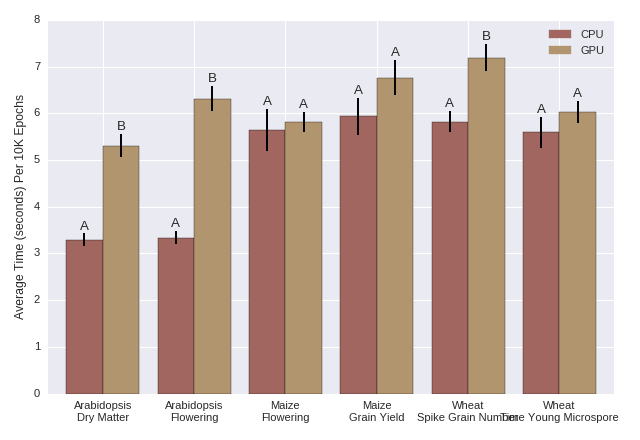
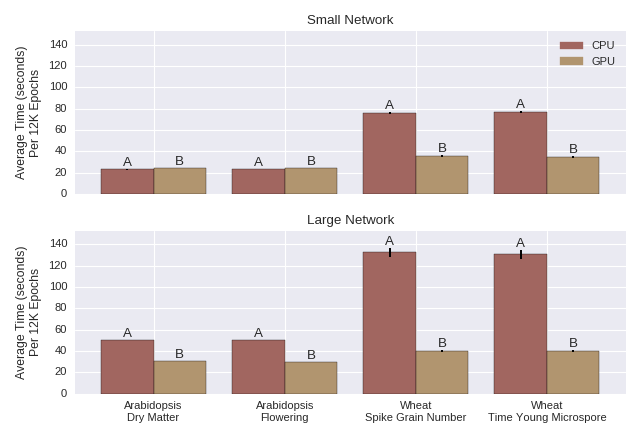
Update r&d for timing comparison

diff --git a/g3_article/sections/results.tex b/g3_article/sections/results.tex
@@ -1,24 +1,46 @@
-The results and discussion should not be repetitive. The results section should give a factual 
-presentation of the data and all tables and figures should be referenced; the discussion 
-should not summarize the results but provide an interpretation of the results, and should 
-clearly delineate between the findings of the particular study and the possible impact 
-of those findings in a larger context. Authors are encouraged to cite recent work 
-relevant to their interpretations. Present and discuss results only once, not in 
-both the Results and Discussion sections. It is sometimes acceptable to combine 
-results and discussion. The text should be as succinct as possible. 
-Heed Strunk and White's dictum: "Omit needless words!"
+
+\subsection*{Overall Performance}
 
 \ifdefined\showtablesandfigures
 \input{g3_article/tables/model_comparison_wrapper} % Label = tab:model-comparison
 \fi
 
+\subsection*{Regularized Network Performance}
+
+If a model is overfitted to training data, training data prediction accuracy is greater than 
+the accuracy observed when making predictions on new datasets. Because all measurements were collected 
+using five-fold cross validation sampling, models that overfit should exhibit lower accuracy. 
+The decreased performance of the unregularized networks on several datasets in Figure 
+\ref{fig-network-comparison} suggests that the overfitting problems 
+previously observed were limiting out-of-sample performance. Our results demonstrate that 
+applying one or more regularization methods to networks can improve their 
+predictive accuracy for genomic prediction problems.
+
 \ifdefined\showtablesandfigures
 \input{g3_article/figures/network_comparison} % Label = fig:network-comparison
 \fi
 
+\subsection*{Deep Network Performance}
+
 \ifdefined\showtablesandfigures
 \input{g3_article/figures/depth_comparison} % Label = fig:depth-comparison
 \fi
+
+\subsection*{GPU and CPU Training Time}
+
+Network training time was significantly different from CPU training time in all datasets (Figure \ref{fig:time-comparison}).
+For small networks trained on smaller datasets such as arabidopsis, CPU training completed significantly faster than GPU training, though only
+by a small magnitude. For small networks and all other datasets, as well as for all large networks, GPU training time was faster than 
+CPU training time on a per-core basis. For very large datasets such as the pig and loblolly datasets, CPU computing could not be 
+completed in under 24 hours, but could be completed by a dedicated GPU card during that time. These results confirm that the 
+speedups associated with GPU network training apply to genomic selection applications.  
+
+The results from Figure \ref{fig:time-comparison} compare a single Intel i7-4790K CPU core to a single Nvidia GTX 680 graphics card.
+However, most modern full-size computers posess multiple CPU cores, but few contain graphics cards with GPU compute capability. 
+Thus, choosing a network training method depends on computing hardware availability as well as required turnaround time. Cloud providers such 
+as Amazon Web Services (AWS) are becoming more popular, and make this choice somewhat less important. AWS provides both CPU and GPU rich 
+machines which can be rented at low cost and are charged by the hour. This makes it feasible to choose a training platform 
+that is most cost effective based on the quantity of data and desired network archetecture for any genomic selection application.
 
 \ifdefined\showtablesandfigures
 \input{g3_article/figures/time_comparison} % Label = fig:time-comparison

diff --git a/g3_article/figures/time_comparison.tex b/g3_article/figures/time_comparison.tex
@@ -3,12 +3,14 @@
 \renewcommand{\familydefault}{\sfdefault}\normalfont
 \centering 
 \includegraphics[width=\linewidth]{g3_article/figures/time_comparison.png}
-    \caption{Time to train identical networks on identical datsets using a dedicated CPU core
-             compared to a dedicated GPU card. For all datasets, a single hidden layer, unregularized 
-             neural network was trained for 10K epochs. Optimizations that could cause a network
-             to terminate training early were disabled so differences in network initialization
-             would not affect timing. Each CPU and GPU training example were compared using 
-             an independent samples T-test with $n=30$. Columns annotated with the same letter 
-             are not significantly different at the $\alpha=0.05$ level.}
+    \caption{Time to train different sized networks on identical datsets using a single dedicated CPU core
+             compared to a single dedicated GPU card. Lower time to train is better. For the small network, 
+             an unregularized, single hidden layer of 27 neurons was trained for 12K epochs on each dataset. 
+             For the large network, two the hidden layers of size 64 and 32 neurons, respectively were trained. 
+             Training processes were otherwise equal. This process was repeated ten times per dataset to 
+             reduce variation associated with non-deterministic processor scheduling and varying computer system load.
+             The ten CPU and GPU training samples were compared using an independent samples T-test with $n=30$. 
+             CPU-GPU pairs annotated with the same letter are not significantly different 
+             at the $\alpha=0.05$ level.}
 \label{fig:time-comparison}
 \end{figure}
